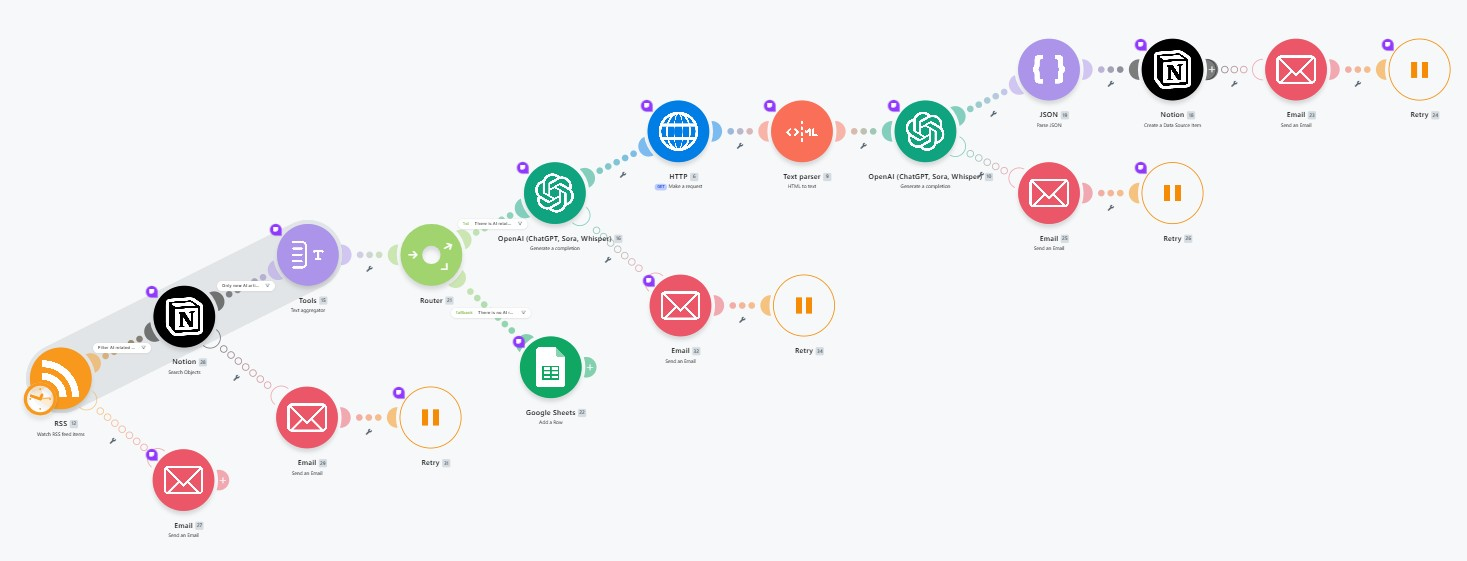
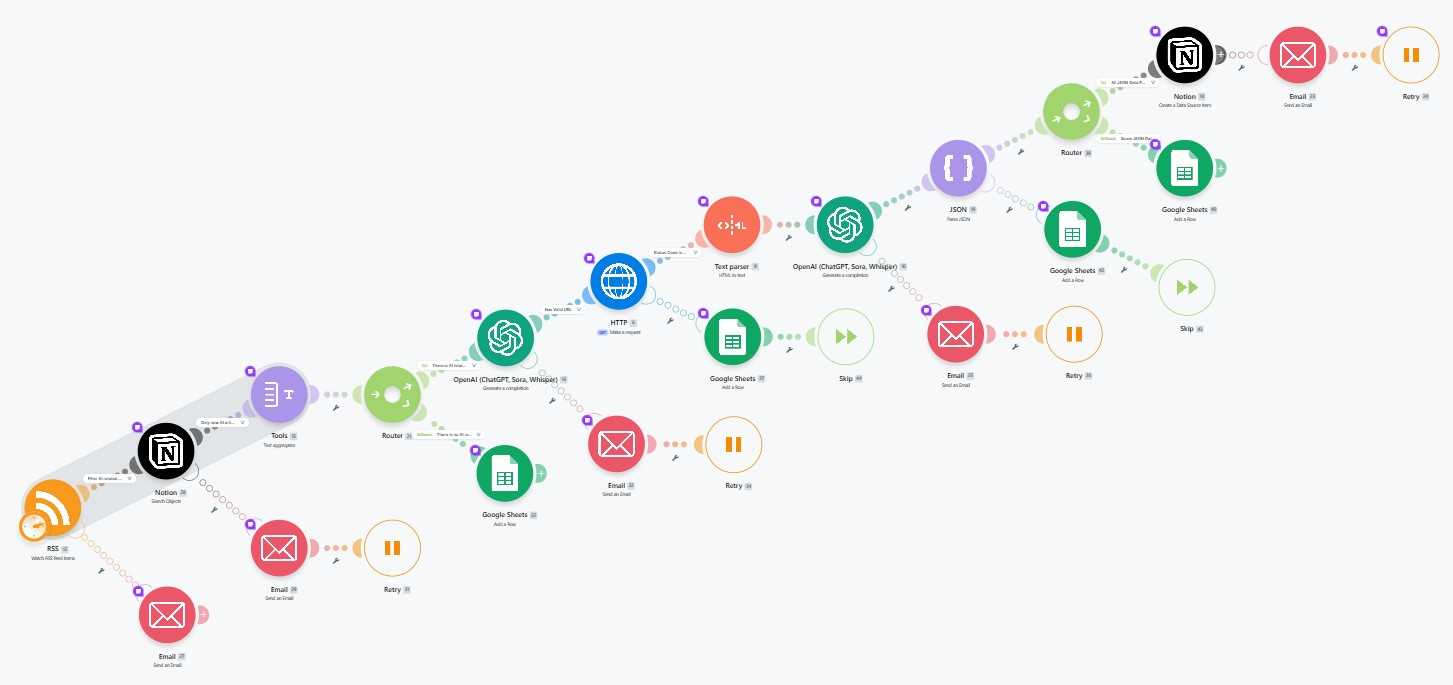
Docs: add more images

Changed region(s): [[0.0, 0.0303, 0.9911, 0.9697]]

diff --git a/document/result_log.md b/document/result_log.md
@@ -40,19 +40,21 @@
 
 실행 완료:
 
-<img src="../images/no_AI_news.jpg" width="500"/>
+<img src="../images/issue_no_AI_news.jpg" width="500"/>
 
 <br>
 
 구글 시트 기록:
 
-<img src="../images/no_AI_news_google_sheets.jpg" width="500"/>
+<img src="../images/issue_no_AI_news_sheets.jpg" width="500"/>
 
 ---
 
 ## 4. Notion 에러 이메일 알림 후 재시도
 
-노션 에러 상황 테스트: Data Source ID를 없는 ID로 넣고 실행.
+노션에 에러가 났을 때 error handler에서 Router를 넣어서 Path A를 치명적인 에러에 이메일을 보내고 재시도, 그리고 Path B를 일반적인 에러에 구글 시트의 issue_log에 넣고 재시도를 하게 해도 되지만 현 과제를 위해서 간단하게 모든 에러에 이메일을 보내고 재시도를 하게 함.
+
+테션 에러 상황 테스트: Data Source ID를 없는 ID로 넣고 실행.
 
 ### <첫 번째 Notion>
 
@@ -82,6 +84,8 @@
 
 ## 5. OpenAI 에러 이메일 알림 후 재시도
 
+오픈AI에 에러가 났을 때 error handler에서 Router를 넣어서 Path A를 치명적인 에러에 이메일을 보내고 재시도, 그리고 Path B를 일반적인 에러에 구글 시트의 issue_log에 넣고 재시도를 하게 해도 되지만 현 과제를 위해서 간단하게 모든 에러에 이메일을 보내고 재시도를 하게 함.
+
 오픈AI 에러 상황 테스트: `Model`필드에서 `Map`을 선택하고 없는 GPT모델을 넣음. 예) `gpt-fake-model-12345` 
 
 ### <첫 번째 OpenAI>
@@ -110,11 +114,64 @@
 
 ---
 
-## 6. HTTP 에러는 filter 사용
+## 6. HTTP 에러 구글 시트에 이슈 기록
 
-HTTP 에서 에러가 났을 때 알림을 보내지 않고 간단하게 필터를 사용하여 `Status Code` 가 200~299일 때만 다음 모듈(Text Parser)로 가게 함.
+`HTTP` 에서 에러가 났을 때는 즉각적인 조치가 필요하지 않기 때문에 알림을 보내지 않고 추적 및 감사를 하기 위해 구글 시트에 이슈에 대한 행 삽입. 그리고 `HTTP` -> `Text Parser` 중간에 필터를 사용하여 아래 이미지와 같이 `Status Code` 가 200~299일 때만 다음 모듈(`Text Parser`)로 가게 함.
 
-<img src="../images/filter_HTTP.jpg" width="500"/>
+<p align="center">
+  <img src="../images/filter_http_input.jpg" width="300"/>
+</p>
+
+HTTP 에러 상황 테스트: URL을 첫 번째 OpenAI에서 나온 출력이 아닌 `https://doesntexist.com`으로 넣고 실행.
+
+실행 완료:
+
+<img src="../images/error_http.jpg" width="500"/>
+
+<br>
+
+구글 시트 기록:
+
+<img src="../images/error_http_sheets.jpg" width="500"/>
+
+---
+
+## 7. Parse JSON가 JSON형식의 string을 받지 않은 경우 구글 시트에 이슈 기록
+
+`Parse JSON` 에서 에러가 났을 때도 즉각적인 조치가 필요하지 않기 때문에 알림을 보내지 않고 추적 및 감사를 하기 위해 구글 시트에 이슈에 대한 행 삽입.
+
+Parse JSON 에러 상황 테스트: `JSON string`필드에 OpenAI가 출력한 JSON 형식의 답이 아닌 `not-json-you-want`을 넣고 실행.
+
+실행 완료:
+
+<img src="../images/error_parseJSON.jpg" width="500"/>
+
+<br>
+
+구글 시트 기록:
+
+<img src="../images/error_parseJSON_sheets.jpg" width="500"/>
+
+---
+
+## 8. Parse JSON에서 모든 데이터를 받지 않았을 때 구글 시트에 이슈 기록
+
+Parse JSON 상황 테스트: `JSON string`필드에 OpenAI가 출력한 JSON 형식의 답에서 `Summary`를 빼고 실행.
+
+`JSON string` 필드 입력 예:
+```
+{"result": {"Title": "Patronus AI, AI 에이전트 스트레스 테스트용 ‘디지털 월드’ 구축 위해 5,000만 달러 투자 유치","URL": "https://techcrunch.com/2026/06/25/patronus-ai-lands-50m-to-build-digital-worlds-that-stress-test-ai-agents/","Date": "2026-06-25 20:19:25","Emotion": "긍정","Guid": "https://techcrunch.com/?p=3136499"}}
+```
+
+실행 완료:
+
+<img src="../images/issue_parsejson.jpg" width="500"/>
+
+<br>
+
+구글 시트 기록:
+
+<img src="../images/issue_parsejson_sheets.jpg" width="500"/>
 
 ---
 